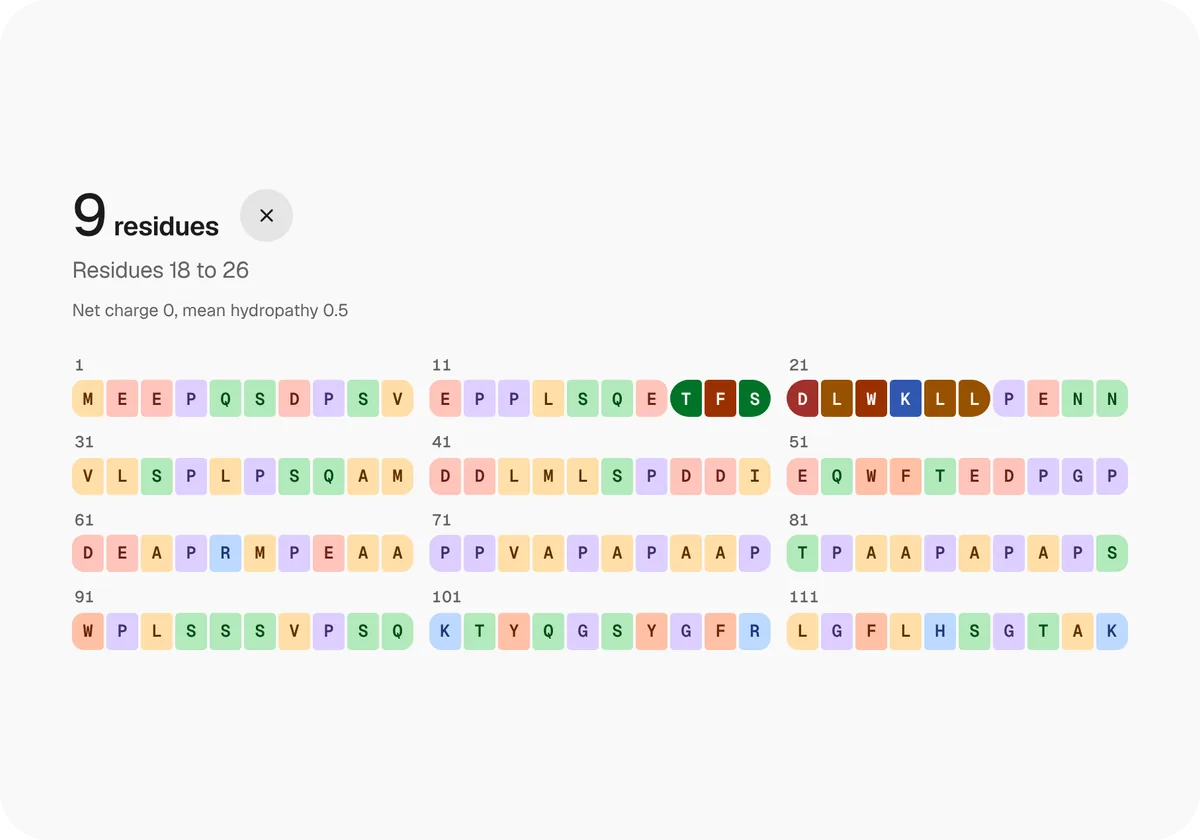
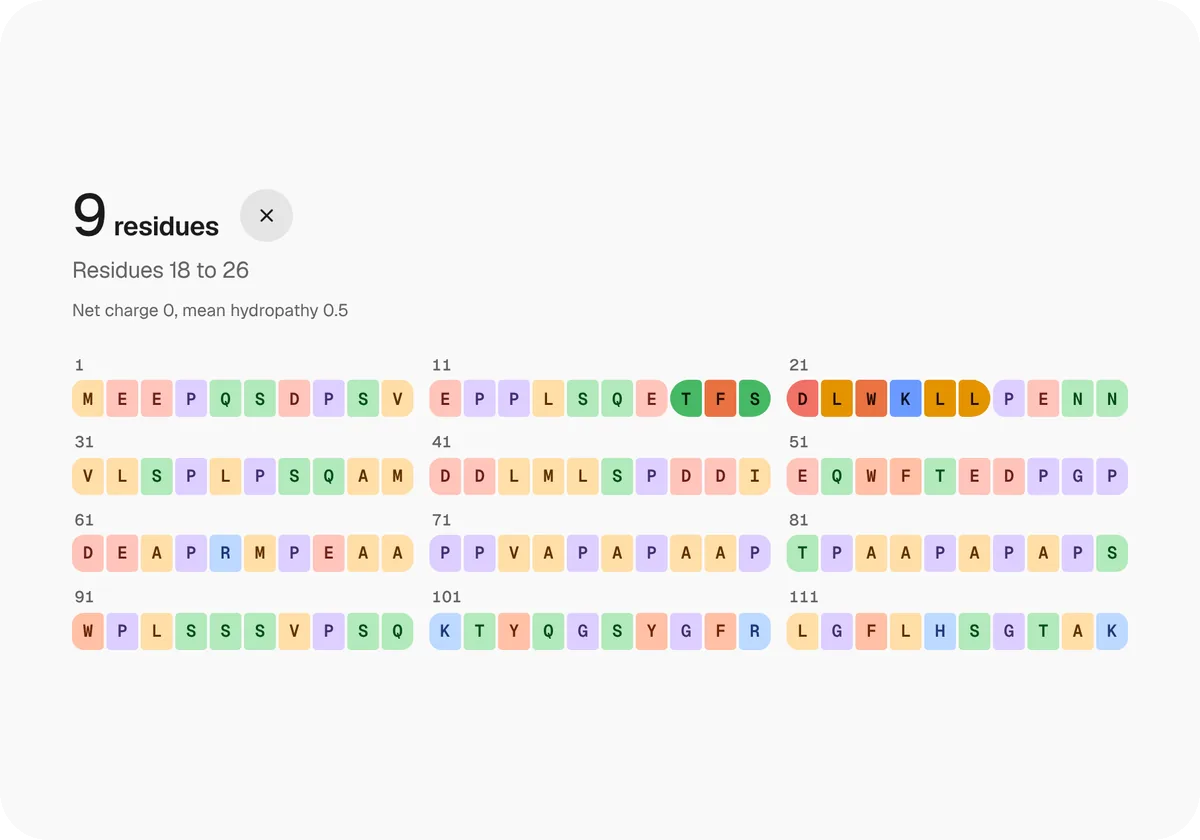
Residue: brighter solid tiles with deep tinted letters in light mode

Changed region(s): [[0.555, 0.4333, 0.8325, 0.4952]]

diff --git a/registry/nelumbo/ui/residue.tsx b/registry/nelumbo/ui/residue.tsx
@@ -53,7 +53,7 @@ const VARIANTS = {
   tonal:
     "[--rbl:0.885] [--rbc:0.085] [--ril:0.36] [--ric:0.11] [--rsd:0.06] dark:[--rbl:0.42] dark:[--rbc:0.09] dark:[--ril:0.96] dark:[--ric:0.05] dark:[--rsd:0.06]",
   solid:
-    "[--rbl:0.48] [--rbc:0.15] [--ril:0.995] [--ric:0] [--rsd:0.04] dark:[--rbl:0.82] dark:[--rbc:0.13] dark:[--ril:0.22] dark:[--ric:0.05] dark:[--rsd:0.05]",
+    "[--rbl:0.7] [--rbc:0.16] [--ril:0.2] [--ric:0.05] [--rsd:0.04] dark:[--rbl:0.82] dark:[--rbc:0.13] dark:[--ril:0.22] dark:[--ric:0.05] dark:[--rsd:0.05]",
   subtle:
     "[--rbl:0.955] [--rbc:0.025] [--ril:0.48] [--ric:0.09] [--rsd:0.015] dark:[--rbl:0.27] dark:[--rbc:0.035] dark:[--ril:0.8] dark:[--ric:0.07] dark:[--rsd:0.02]",
   text: "[--ril:0.48] [--ric:0.15] dark:[--ril:0.82] dark:[--ric:0.13] [--rsd:0]",
